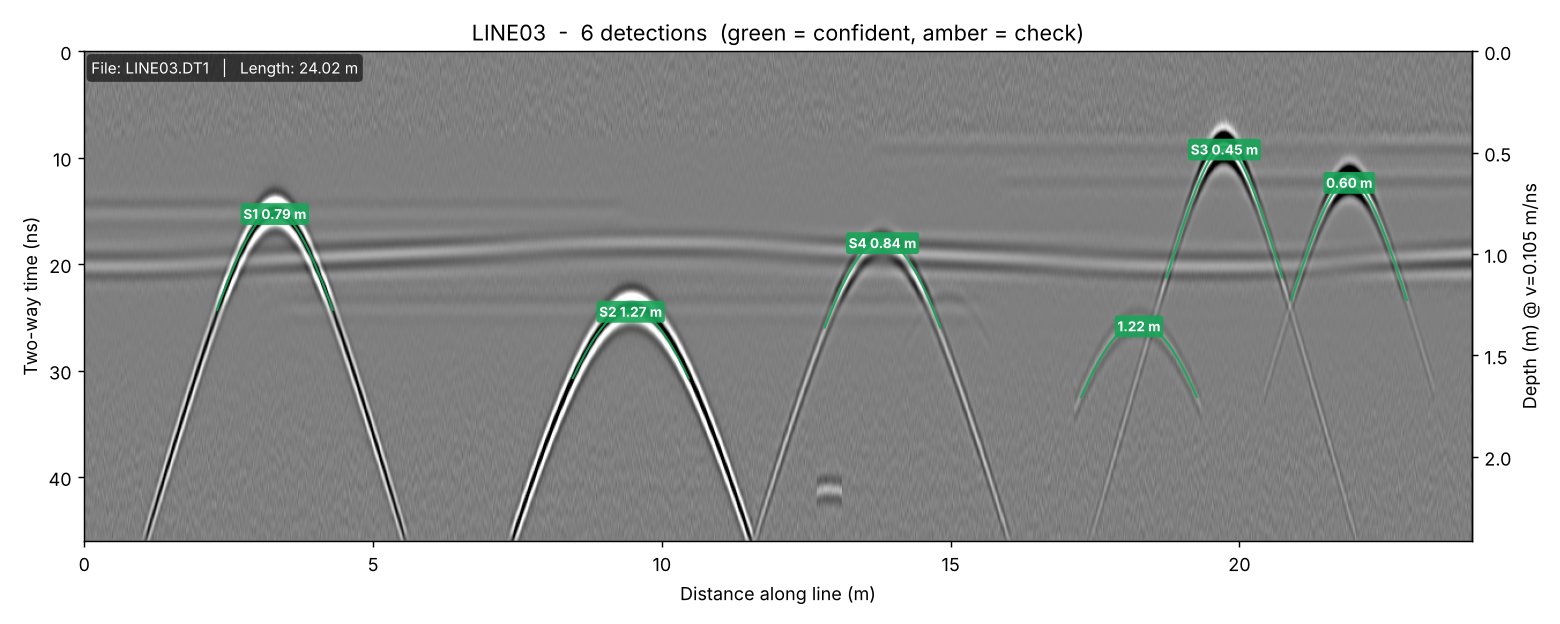
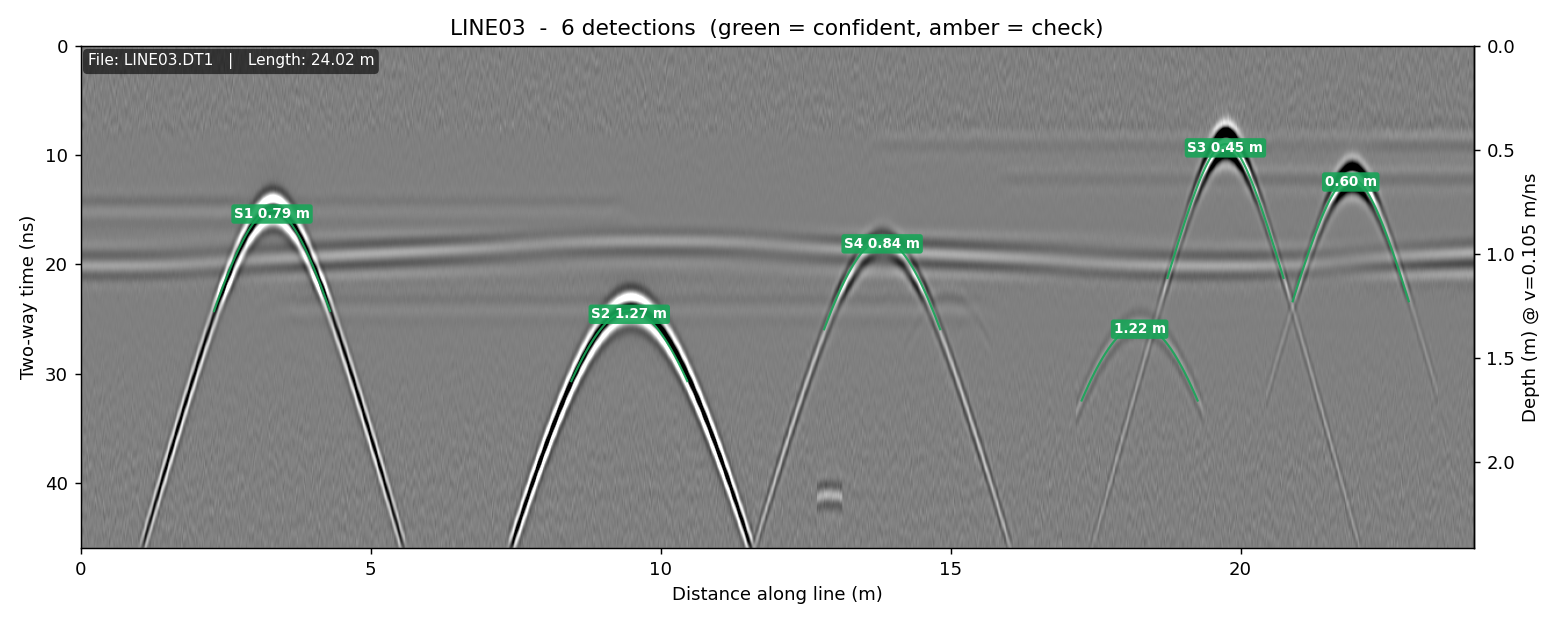
Refresh QGIS screenshots for 0.3.2
New: Processing Toolbox entry, advanced parameters (with the metres/feet
option) and the run log. Updated: dialog, map, attribute table and the
annotated radargram (now labelled with file name and length).

Claude-Session: https://claude.ai/code/session_01KinyL3oZfGEbBuYSVRew7J

diff --git a/README.md b/README.md
@@ -26,28 +26,43 @@ and outputs are the tools' own.
 
 ### QGIS
 
-Sample survey 02 run through the QGIS plug-in (survey on GDA2020, output in MGA2020 zone 50).
+Sample survey 02 run through the QGIS plug-in, version 0.3.2 (survey on GDA2020, output in MGA2020
+zone 50).
 
-**1. Run it from the QGIS Processing Toolbox** – pick the survey folder and the two coordinate systems.
+**1. Find it in the Processing Toolbox** – *GPR Service Mapper ▸ Interpretation ▸ Interpret GPR
+survey* (also on the toolbar and the Plugins menu).
+
+![GPR Service Mapper in the QGIS Processing Toolbox](docs/screenshots/qgis_processing_toolbox.png)
+
+**2. Set up the run** – pick the survey folder and the two coordinate systems.
 
 ![QGIS Processing dialog for Interpret GPR survey](docs/screenshots/qgis_processing_dialog.png)
 
-**2. The services load into QGIS** – coloured by AS 5488 class and labelled with ID, suggested class
+**3. Advanced parameters** – velocity range, detection threshold, linking distances, an optional
+trained detector, and the distance units (metres or feet) for the radargram images.
+
+![Advanced parameters in the QGIS dialog](docs/screenshots/qgis_dialog_advanced.png)
+
+**4. Watch the agent work** – the Log tab shows each step and decision as it runs.
+
+![Run log in the QGIS Processing dialog](docs/screenshots/qgis_dialog_log.png)
+
+**5. The services load into QGIS** – coloured by AS 5488 class and labelled with ID, suggested class
 and depth. Green dots are confident detections; the amber cross is one flagged for checking.
 
 ![Services, detections and survey lines in QGIS](docs/screenshots/qgis_map_layers.png)
 
-**3. Every service carries its classification** – material from polarity, suggested class with
-alternatives, and an `svc_type` pick-list for the class the locator confirms.
+**6. Every service carries its depth and classification** – depth range, material from polarity,
+suggested class with alternatives, and an `svc_type` pick-list for the class the locator confirms.
 
 ![Services attribute table in QGIS](docs/screenshots/qgis_attribute_table.png)
 
-**4. Each radargram is annotated** – the source file name and line length, and every fitted
+**7. Each radargram is annotated** – the source file name and line length, and every fitted
 hyperbola with its depth (right axis). Distances and depths can be shown in metres or feet.
 
 ![Annotated radargram for one survey line](docs/screenshots/annotated_radargram.png)
 
-**5. An interpretation report** – site velocity, each service's class, depth and review status, and
+**8. An interpretation report** – site velocity, each service's class, depth and review status, and
 the coordinates in the output coordinate system.
 
 ![HTML interpretation report](docs/screenshots/interpretation_report.png)
